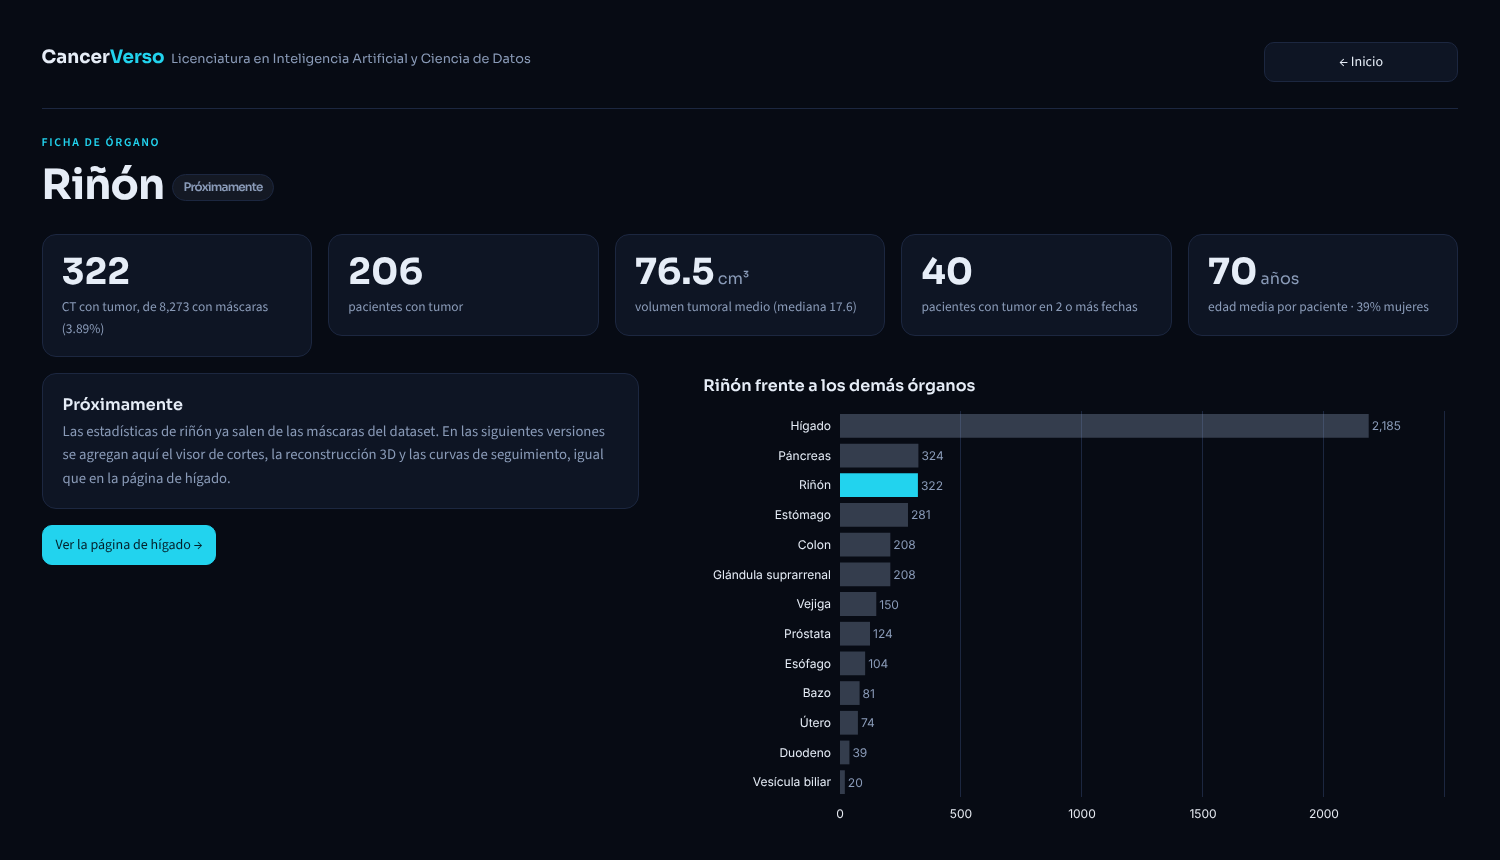
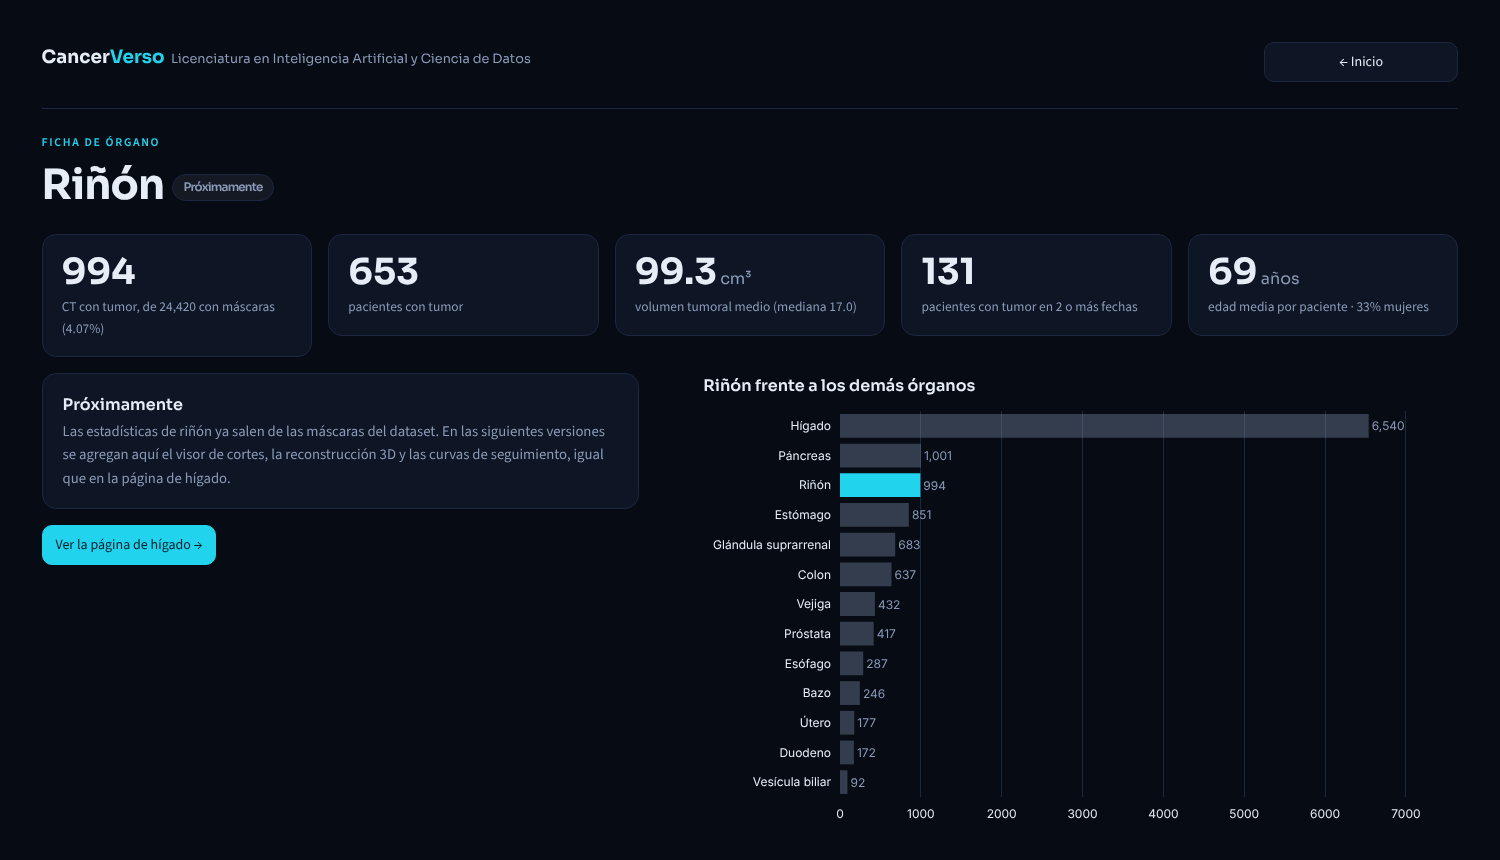
Versión final: README con recorrido de la app, capturas nuevas y documentos cerrados

diff --git a/app.py b/app.py
@@ -449,12 +449,12 @@ def figura_barras_log(nombres, valores, unidad, colores):
     """Barras horizontales en escala logarítmica (sirve cuando los valores van de muy chicos a muy grandes)."""
     textos = []
     for v in valores:
-        if v >= 100:
-            textos.append(f"{v:,.0f}" + " " + unidad)       # 3040 -> "3,040"
+        if v >= 100 or v == round(v):
+            textos.append(f"{v:,.0f}" + " " + unidad)       # 3040 -> "3,040" y 81 -> "81"
         elif v >= 1:
             textos.append(f"{v:,.1f}" + " " + unidad)       # 23.6 -> "23.6"
         else:
-            textos.append(f"{v:.3f}" + " " + unidad)        # 0.026 -> "0.026"
+            textos.append(f"{v:.3g}" + " " + unidad)        # 0.55 -> "0.55" y 0.026 -> "0.026"
     fig = go.Figure(go.Bar(y=nombres, x=valores, orientation="h", marker_color=colores, text=textos,
                            textposition="outside", textfont=dict(color=TEXTO), hoverinfo="skip"))
     estilo_grafica(fig, 60 + 48 * len(nombres))

diff --git a/README.md b/README.md
@@ -6,39 +6,76 @@ Proyecto de Big Data (proceso KDD) · Licenciatura en Inteligencia Artificial y 
 > Prototipo académico. No es un dispositivo médico ni sustituye el diagnóstico de un especialista.
 
 **Integrantes:** Isay Morales, Christopher Medrano, Paul Rondan y Astrin Paloma.
-**Materia y profesor:** Manejo de grandes volumenes de datos · Profesor Leonardo Zucco.
+**Materia y profesor:** Manejo de grandes volúmenes de datos · Profesor Leonardo Zucco.
+**Versión final:** 25 de noviembre de 2026.
+
+---
+
+## En números
+
+| | |
+|---|---|
+| Dataset de origen | **3.04 TB** · 24,422 tomografías (CT) · 14,599 pacientes · 13 órganos |
+| CT de hígado procesados a detalle | **300.9 GB** · 2,336 CTs de 1,319 pacientes (meta mínima: 300 GB) |
+| Tiempo de proceso | ~55 h en Google Colab, repartidas en 4 cuentas |
+| Dataset para el modelo | 180,238 cortes 2D en 90 shards (23.6 GB), separados por paciente |
+| Modelo | U-Net 2D (deep learning, MONAI) entrenada por el equipo en una GPU T4 |
+| Resultado en pacientes nunca vistos | Dice hígado **0.95** · Dice tumor **0.65** · HTB% con correlación **0.85** |
 
 ---
 
 ## 1. Qué es
 
+**Pregunta del proyecto:** ¿cuánto del hígado de un paciente está ocupado por tumor, y cómo cambia eso entre un estudio y el siguiente?
+
 CancerVerso es un dashboard en Streamlit que permite:
 
 - Ver las cifras generales del dataset CancerVerse y elegir un órgano en un **menú de 13 órganos**.
-- Para **hígado** (el órgano activo en esta versión): recorrer la tomografía corte por corte con el tumor marcado, ver el hígado y los tumores en **3D**, y medir la **carga tumoral hepática (HTB%)**.
-- Seguir a un mismo paciente **en el tiempo**: cómo cambia el volumen de su tumor entre estudios.
-- Ver el **modelo de deep learning** (pestaña *Modelo IA*): una U-Net 2D entrenada por el equipo que pinta hígado y tumor, con sus métricas en pacientes que nunca vio y cortes de ejemplo experto vs U-Net.
-- Ver **cómo se procesaron los datos** (pestaña *Cómo lo hicimos*): el proceso KDD, cuánto pesan los datos en cada etapa, el reparto del trabajo y los problemas que se resolvieron.
+- En **hígado**, el órgano con página completa, hay tres pestañas:
+  - **Paciente:** recorrer la tomografía corte por corte con el tumor marcado, ver el hígado y los tumores en **3D**, medir la **carga tumoral hepática (HTB%)** y seguir al paciente **en el tiempo**.
+  - **Modelo IA:** la U-Net que entrenamos, con sus métricas en pacientes que nunca vio, cortes de ejemplo experto vs U-Net y dónde falla.
+  - **Cómo lo hicimos:** el proceso KDD, cuánto pesan los datos en cada etapa, el reparto del trabajo, los benchmarks y los problemas que resolvimos.
+- Los otros 12 órganos muestran sus estadísticas, calculadas sobre el dataset completo.
 
-Los otros 12 órganos ya muestran sus estadísticas y están marcados como "Próximamente".
+La versión web está en `cancerverso-udg.streamlit.app` y es privada: se entra con el enlace con clave que comparte el equipo.
 
-## 2. Capturas
+## 2. Recorrido por la app
 
-| Portada | Mapa de órganos |
+**Portada:** cifras del dataset y avance de datos procesados.
+
+![Portada](capturas/01_portada.png)
+
+**Mapa de órganos:** clic en un órgano para abrir su ficha.
+
+![Mapa de órganos](capturas/02_mapa_organos.png)
+
+**Hígado › Paciente:** visor de cortes (tumor en rojo, contorno del hígado en cian) y reconstrucción 3D.
+
+![Visor de cortes y 3D](capturas/03_higado_visor_3d.png)
+
+| Carga tumoral hepática (HTB%) | Ficha de un órgano sin página completa |
 |---|---|
-| ![Portada](capturas/01_portada.png) | ![Mapa](capturas/02_mapa_organos.png) |
+| ![HTB%](capturas/04_higado_htb.png) | ![Órgano](capturas/06_organo_proximamente.png) |
 
-| Visor de cortes y 3D | HTB% |
-|---|---|
-| ![Visor](capturas/03_higado_visor_3d.png) | ![HTB](capturas/04_higado_htb.png) |
+**Hígado › Paciente:** seguimiento del volumen tumoral en el tiempo.
 
-| Seguimiento del paciente | Ficha de otro órgano |
-|---|---|
-| ![Seguimiento](capturas/05_seguimiento.png) | ![Órgano](capturas/06_organo_proximamente.png) |
+![Seguimiento](capturas/05_seguimiento.png)
 
-| Modelo IA (U-Net) | Cómo lo hicimos |
-|---|---|
-| ![Modelo IA](capturas/07_modelo_ia.png) | ![Cómo lo hicimos](capturas/08_como_lo_hicimos.png) |
+**Hígado › Modelo IA:** métricas de la U-Net y 4 cortes de prueba, experto arriba y U-Net abajo.
+
+![Modelo IA](capturas/07_modelo_ia.png)
+
+**Hígado › Modelo IA:** HTB% del modelo contra el real, Dice por tamaño de tumor, curva de entrenamiento y dónde falla.
+
+![Gráficas del modelo](capturas/09_modelo_graficas.png)
+
+**Hígado › Cómo lo hicimos:** el problema, las 5 etapas del KDD, tamaño de los datos por etapa y reparto del trabajo.
+
+![Cómo lo hicimos](capturas/08_como_lo_hicimos.png)
+
+**Hígado › Cómo lo hicimos:** benchmark de lectura, precisión mixta y problemas resueltos.
+
+![Lectura, GPU y problemas](capturas/10_como_lo_hicimos_lectura.png)
 
 ## 3. Dataset
 
@@ -55,47 +92,63 @@ Los otros 12 órganos ya muestran sus estadísticas y están marcados como "Pró
 
 El dataset trae la máscara del **tumor** de cada órgano, pero no la máscara del órgano. Por eso el hígado se segmenta aparte (ver sección 4).
 
-**Este repositorio no incluye datos.** Por la licencia del dataset y porque las tablas traen reportes radiológicos, aquí solo está el código. Los datos se generan corriendo el notebook.
+**Este repositorio no incluye datos de pacientes.** Por la licencia del dataset y porque las tablas traen reportes radiológicos, aquí está el código y solo cifras agregadas del modelo (`resultados/`). Los datos se generan corriendo los notebooks.
 
 ## 4. Cómo funciona
 
 ```
-Hugging Face (CTs)  ─┐
-                     ├─► Notebook de Colab ─► Google Drive (stats + procesados) ─► app.py (Streamlit)
-Máscaras de tumor  ──┘
+Hugging Face (3.04 TB) ─► V1: medir, segmentar hígado, HTB%, reducir ─► V2: dataset 2D en shards ─► V3: U-Net ─► app.py (Streamlit)
+                          (2,336 CTs · 300.9 GB leídos)                 (180,238 cortes · 23.6 GB)   (T4, 14 épocas)
 ```
 
-1. **Medición de máscaras.** El notebook recorre las máscaras de tumor de los 13 órganos y calcula el volumen de cada tumor en cm³, sin bajar ningún CT.
-2. **Segmentación del hígado (deep learning).** Para cada CT de hígado elegido se corre **TotalSegmentator 2.18.0**, una red neuronal preentrenada, que devuelve la máscara del hígado.
+**Notebook V1 (datos):**
+
+1. **Medición de máscaras.** Recorre las máscaras de tumor de los 13 órganos y calcula el volumen de cada tumor en cm³, sin bajar ningún CT (0.55 GB leídos).
+2. **Segmentación del hígado.** Para cada CT de hígado elegido corre **TotalSegmentator 2.18.0**, una red neuronal preentrenada, que devuelve la máscara del hígado.
 3. **Carga tumoral hepática.**
    `HTB% = volumen de tumor ÷ volumen de (hígado ∪ tumor) × 100`
    Se usa la unión porque TotalSegmentator a veces deja fuera del hígado los tumores grandes.
-4. **Control de calidad.** Se revisa que CT y máscaras estén alineados y se generan imágenes de los casos donde más del 10% del tumor quedó fuera de la máscara de hígado.
-5. **Seguimiento.** Para pacientes con 2 o más fechas se arma la curva de volumen tumoral, prefiriendo la misma fase del estudio en todas las fechas. Si en una fecha no existe esa fase se usa la disponible y el paciente queda marcado en la columna `misma_fase` (con las 3 partes unidas, 688 de 1,258 pacientes conservan una sola fase). Los pacientes elegidos para la demostración sí mantienen una sola fase.
-6. **Dashboard.** La app solo lee las tablas y los volúmenes reducidos que dejó el notebook.
+4. **Control de calidad.** Revisa que CT y máscaras estén alineados y genera imágenes de los casos donde más del 10% del tumor quedó fuera de la máscara de hígado.
+5. **Seguimiento.** Para pacientes con 2 o más fechas arma la curva de volumen tumoral, prefiriendo la misma fase del estudio en todas las fechas. Si en una fecha no existe esa fase usa la disponible y el paciente queda marcado en la columna `misma_fase` (con las 3 partes unidas, 688 de 1,258 pacientes conservan una sola fase). Los pacientes de la demostración mantienen una sola fase.
+6. **Volumen reducido.** Guarda cada CT ~50 veces más chico para la app y el modelo; las métricas se calculan antes, sobre el CT completo.
 
-El trabajo se reparte por paciente en 3 partes (una por cuenta de Colab) y al final se junta.
+El trabajo se repartió por paciente en 3 partes (hash MD5 del ID) entre 4 cuentas de Colab y al final se unió. 173 CTs se procesaron dos veces como prueba de reproducibilidad: el HTB% difirió como máximo 0.01 puntos.
+
+**Notebook V2 (dataset para el modelo):** inventario de los 2,336 volúmenes, validación, exclusión de 72 CTs con píxel deformado, separación **por paciente** (70/15/15, semilla 42) y 90 shards sin comprimir con huella MD5 en un manifiesto.
+
+**Notebook V3 (modelo):** U-Net 2D de MONAI (6.5 millones de parámetros) que clasifica cada píxel como fondo, hígado o tumor. Pérdida Dice + entropía cruzada, AdamW, precisión mixta fp16 en una T4. Se guarda la época con mejor Dice de tumor en validación y se evalúa en 346 CTs de 193 pacientes que el modelo nunca vio.
+
+**App:** solo lee lo que dejaron los notebooks. No corre el modelo en vivo: muestra la evaluación ya hecha.
 
 Umbrales usados, marcados como **provisionales**:
 
-- Semáforo de HTB% en 25% y 50%: criterio del equipo, todavía sin fuente clínica.
+- Semáforo de HTB% en 25% y 50%: criterio del equipo, sin fuente clínica.
 - Tendencia del volumen (+73% crece, −66% se reduce): equivalente en volumen de RECIST 1.1 (Eisenhauer et al., *Eur J Cancer*, 2009), que define +20% y −30% de diámetro.
 
-## 5. Avance al 24 de noviembre de 2026
+## 5. Resultados
 
-| Etapa | Estado |
+**Datos**
+
+| Etapa | Resultado |
 |---|---|
-| Medición de máscaras, 3 partes unidas (24,420 CTs, 12,529 anotaciones de tumor) | Hecho |
-| Hígado a detalle, 3 partes: 2,336 CTs de 1,319 pacientes (301 GB de CT) | Hecho |
-| Dashboard V1 (portada, menú de órganos, hígado, seguimiento) | Hecho |
-| Unión de las partes 0, 1 y 2 (sección 13 del notebook) | Hecho |
-| Dataset 2D para el modelo: 180,238 cortes de 2,264 CTs, separados por paciente, en 90 shards (23.6 GB) | Hecho |
-| Modelo propio: U-Net 2D de hígado y tumor (MONAI), evaluada en pacientes nunca vistos: Dice tumor 0.65, Dice hígado 0.95, HTB% r = 0.85 | Hecho (GPU T4) |
-| Meta de datos procesados: 300 GB (deseable 1 TB) | 301 GB, meta mínima cumplida |
+| Medición de máscaras (dataset completo) | 24,420 CTs y 12,529 anotaciones de tumor, sin bajar ningún CT |
+| Hígado a detalle | 2,336 CTs de 1,319 pacientes · **300.9 GB** de CT · meta mínima de 300 GB cumplida |
+| Dataset 2D | 180,238 cortes de 2,264 CTs en 90 shards (23.6 GB), 0 pacientes en dos grupos |
+| Lectura | Drive archivo por archivo ~80 cortes/s; con shards o en disco local, más de 1,300 |
+| Entrenamiento | fp16 en la T4: 284 cortes/s contra 148 en fp32 (1.9 veces) |
 
-Las estadísticas por órgano ya cubren el dataset completo (las 3 partes unidas). El hígado a detalle cubre 2,336 CTs, no todos los del dataset. El visor de cortes y 3D solo muestra los CTs cuyo `volumen.npz` se copió a `datos/procesados/higado`.
+**Modelo (346 CTs de prueba, 193 pacientes nunca vistos)**
 
-El detalle por etapa del proceso KDD está en [docs/KDD.md](docs/KDD.md); la ingeniería de datos, en [docs/INGENIERIA.md](docs/INGENIERIA.md); y el diccionario y linaje de los datos, en [docs/DATOS.md](docs/DATOS.md).
+| Métrica | Valor |
+|---|---|
+| Dice de hígado (global / mediana por CT) | 0.949 / 0.969 |
+| Dice de tumor (global / mediana por CT) | 0.653 / 0.521 |
+| Dice de tumor, tumores chicos / grandes | 0.13 / 0.74 |
+| HTB% del modelo vs real: correlación / error mediano | 0.85 / 0.66 puntos |
+
+El hígado se segmenta casi perfecto. El tumor depende de su tamaño: las lesiones chicas son las difíciles. El HTB% sale cerca del real en la mayoría de los CTs, pero el modelo subestima los casos con más de 40% de carga tumoral.
+
+Detalle: proceso KDD en [docs/KDD.md](docs/KDD.md), ingeniería de datos en [docs/INGENIERIA.md](docs/INGENIERIA.md), diccionario y linaje en [docs/DATOS.md](docs/DATOS.md) y guía para presentar en [docs/DEFENSA.md](docs/DEFENSA.md).
 
 ## 6. Cómo correrlo
 
@@ -108,7 +161,7 @@ El detalle por etapa del proceso KDD está en [docs/KDD.md](docs/KDD.md); la ing
 **Dataset para el modelo y U-Net (Google Colab):**
 
 1. `notebooks/CancerVerso_V2_datos_modelo.ipynb` (CPU con RAM amplia): inventario, validación, separación por paciente y shards en `MyDrive/Big data Zucco/dataset_modelo/v2/`.
-2. `notebooks/CancerVerso_V3_unet.ipynb` (GPU, de preferencia G4): verifica las huellas MD5, entrena la U-Net y la evalúa. Los resultados quedan en `MyDrive/Big data Zucco/modelos/unet_<gpu>/`.
+2. `notebooks/CancerVerso_V3_unet.ipynb` (GPU): verifica las huellas MD5, entrena la U-Net y la evalúa. Los resultados quedan en `MyDrive/Big data Zucco/modelos/unet_<gpu>/`. La corrida entregada, con todas sus salidas, es `CancerVerso_V3_unet_corrida_T4.ipynb`.
 
 **Levantar la app (local):**
 
@@ -133,7 +186,7 @@ resultados/ejemplos_test.png 4 cortes de test: experto vs U-Net (la misma imagen
 resultados/proceso.json      cifras del proceso de datos (de docs/INGENIERIA.md)
 ```
 
-Si solo se corrió una parte, los archivos de `stats/` salen con sufijo (`_parte0`); hay que copiarlos sin el sufijo. Con todas las partes, la sección 13 del notebook genera los archivos finales en `stats_union/`.
+La versión web (`cloud_app.py`) se explica en [docs/DESPLIEGUE.md](docs/DESPLIEGUE.md).
 
 ## 7. Estructura del repositorio
 
@@ -145,34 +198,44 @@ resultados/                    resultados de la U-Net y cifras del proceso que m
 requirements.txt               librerías de la app
 .streamlit/config.toml         tema oscuro de la app
 notebooks/CancerVerso_V1.ipynb preparación de datos (Colab)
+notebooks/CancerVerso_V1_ampliacion.ipynb     versión del V1 que se usó en Colab para ampliar los casos de hígado
 notebooks/CancerVerso_V2_datos_modelo.ipynb   dataset 2D para el modelo (Colab)
 notebooks/CancerVerso_V3_unet.ipynb           U-Net: entrenamiento y evaluación (Colab)
-notebooks/CancerVerso_V3_unet_corrida_T4.ipynb  primera corrida de la U-Net, con resultados
+notebooks/CancerVerso_V3_unet_corrida_T4.ipynb  corrida entregada de la U-Net, con resultados
 docs/KDD.md                    proceso KDD del proyecto
 docs/DATOS.md                  diccionario de datos y linaje
 docs/INGENIERIA.md             cómo se procesaron los datos
-docs/DEFENSA.md                preguntas y respuestas para presentar el proyecto
+docs/DEFENSA.md                guion de demo y preguntas y respuestas
 docs/DESPLIEGUE.md             cómo se publica la versión web
 capturas/                      imágenes del dashboard
 ```
 
-## 8. Qué sigue y qué necesitamos
+## 8. Límites
 
-**Siguiente versión**
+- Solo hígado tiene página completa; los otros 12 órganos muestran estadísticas.
+- Se procesaron a detalle 300.9 GB de los 3.04 TB; las estadísticas por órgano sí cubren el dataset completo.
+- El visor de cortes y 3D muestra 20 CTs de demostración, no los 2,336.
+- Las cifras del modelo son algo optimistas: la validación se usó para elegir la mejor época y solo se evalúan cortes con hígado.
+- El semáforo de HTB% y la regla de tendencia son criterios provisionales del equipo.
 
-- Mejorar la U-Net en tumores chicos y medirla en una GPU G4.
-- Correr la U-Net en vivo dentro de la app (hoy muestra la evaluación ya hecha, porque Streamlit Cloud no tiene GPU).
-- Activar más órganos en el menú.
+## 9. Trabajo futuro y apoyo que nos ayudaría
+
+**Trabajo futuro**
+
+- Mejorar la U-Net en tumores chicos (más épocas, más peso a la clase tumor o cortes vecinos en 2.5D).
+- Correr la U-Net en vivo dentro de la app con un servidor con GPU.
+- Activar más órganos en el menú y acercarse a 1 TB procesado.
 
 **Apoyo que nos ayudaría**
 
-- **Cómputo:** hoy usamos una GPU T4 de Colab. Para entrenar la U-Net y llegar a 300 GB procesados necesitamos más horas de GPU.
-- **Almacenamiento:** espacio compartido para guardar los CTs procesados de todo el equipo.
-- **Asesoría técnica:** uso de MONAI para el entrenamiento, y si conviene LoRA o ajuste fino sobre un modelo preentrenado en lugar de entrenar desde cero.
+- **Cómputo:** horas de GPU para reentrenar el modelo y procesar más órganos.
+- **Almacenamiento:** espacio compartido para los CTs procesados de todo el equipo.
+- **Asesoría técnica:** ajuste fino de un modelo preentrenado (por ejemplo con LoRA) contra entrenar desde cero.
 - **Criterio clínico:** una fuente para los cortes del semáforo de HTB%.
 
-## 9. Créditos
+## 10. Créditos
 
 - Datos: CancerVerse, BodyMaps, Johns Hopkins University. CC BY-NC-ND 4.0.
 - Segmentación de hígado: TotalSegmentator 2.18.0 (Wasserthal et al.).
+- U-Net: MONAI (Project MONAI).
 - RECIST 1.1: Eisenhauer et al., *European Journal of Cancer*, 2009.

diff --git a/docs/DATOS.md b/docs/DATOS.md
@@ -2,7 +2,7 @@
 
 Este documento dice **qué datos existen en el proyecto, de dónde sale cada uno, qué significa cada columna y qué controles pasó**. Es la referencia para entender las tablas del notebook, la app y el dataset con el que se entrena la U-Net.
 
-Avance al 24 de noviembre de 2026 (03:45).
+Versión final, 25 de noviembre de 2026.
 
 > Los datos **no se suben a GitHub** (licencia CC BY-NC-ND 4.0 del dataset y reportes radiológicos en las tablas). Viven en Google Drive, en `MyDrive/Big data Zucco/`, y una copia de las tablas de la app en `datos/` de la carpeta local.
 
@@ -54,7 +54,7 @@ flowchart TD
 |---|---|---|
 | `notebooks/CancerVerso_V1.ipynb` | Secciones 1–13: metadatos, máscaras, selección, TotalSegmentator, HTB%, volúmenes reducidos, control de calidad y unión de las 3 partes | Colab (T4) de cada integrante |
 | `notebooks/CancerVerso_V2_datos_modelo.ipynb` | Inventario, validación, separación por paciente, dataset 2D en shards y benchmark de lectura | Colab de Isay (CPU con RAM amplia) |
-| `notebooks/CancerVerso_V3_unet.ipynb` | Benchmark de GPU, verificación MD5, entrenamiento de la U-Net y evaluación en test | Colab de Isay (G4; la primera corrida fue en T4: `CancerVerso_V3_unet_corrida_T4.ipynb`) |
+| `notebooks/CancerVerso_V3_unet.ipynb` | Benchmark de GPU, verificación MD5, entrenamiento de la U-Net y evaluación en test | Colab de Isay. La corrida entregada, con sus resultados, es `CancerVerso_V3_unet_corrida_T4.ipynb` (GPU T4) |
 
 **Reparto en 3 partes:** cada paciente cae en una parte según el hash MD5 de su ID, así que todos sus estudios quedan juntos. Parte 0: Isay (1,909 CTs) y Paloma (27 nuevos + 173 repetidos que sirvieron como prueba de reproducibilidad: diferencia máxima de HTB% de 0.01). Parte 1: Paul (200). Parte 2: Christopher (200).
 
@@ -73,7 +73,6 @@ En Drive, `MyDrive/Big data Zucco/`:
 | `dataset_modelo/v2/` | Shards del dataset 2D, `manifest.json` e `indice_cortes.csv` (versión vigente) |
 | `dataset_modelo/v1/` | Primera corrida, sin el filtro de píxel deformado (obsoleta) |
 | `modelos/unet_t4/` | U-Net entrenada en T4: `mejor.pt`, `ultimo.pt`, bitácoras, `test_por_caso.csv`, gráficas y `resumen.json` (sección 7) |
-| `modelos/unet_g4/` | Igual, cuando se entrene en G4 |
 
 En la carpeta local, `datos/stats/` tiene las tablas que lee la app (unión de las 3 partes) y `datos/procesados/` los volúmenes que muestra.
 
@@ -309,6 +308,6 @@ Algunas series se adquirieron en otro plano con cortes gruesos. Al verlas en vis
 1. Correr `CancerVerso_V1.ipynb` en Colab con GPU (cada integrante su parte; la sección 13 junta las partes).
 2. Crear en Drive los accesos directos de `companeros/` (instrucciones al inicio del notebook V2).
 3. Correr `CancerVerso_V2_datos_modelo.ipynb` con **Ejecutar todo** (CPU con RAM amplia basta; ~20 min).
-4. Correr `CancerVerso_V3_unet.ipynb` con GPU (de preferencia G4) y **Ejecutar todo**: verifica las huellas MD5, entrena y evalúa. Para solo medir una GPU, correr las secciones 1 y 2.
+4. Correr `CancerVerso_V3_unet.ipynb` con GPU (la corrida entregada fue en una T4) y **Ejecutar todo**: verifica las huellas MD5, entrena y evalúa. Para solo medir una GPU, correr las secciones 1 y 2.
 
 Con la misma semilla (42) sale la misma separación y los mismos shards.

diff --git a/docs/INGENIERIA.md b/docs/INGENIERIA.md
@@ -2,7 +2,7 @@
 
 Este documento cuenta **qué problemas de volumen de datos encontramos y cómo los resolvimos**, con las cifras medidas en cada paso. El diccionario de cada tabla y archivo está en [DATOS.md](DATOS.md); el proceso KDD completo, en [KDD.md](KDD.md).
 
-Avance al 24 de noviembre de 2026.
+Versión final, 25 de noviembre de 2026.
 
 ---
 
@@ -115,7 +115,6 @@ Lo estable entre corridas: **Drive archivo por archivo da ~80 cortes/s; cualquie
 |---|---|---|---|---|
 | T4 | fp32 | 24 | 148 | 1.5 GB |
 | T4 | fp16 (mixta) | 24 | 284 | 0.9 GB |
-| G4 | — | — | *pendiente* | — |
 
 - **Checkpoint en Drive cada época** (`ultimo.pt`) y del mejor modelo (`mejor.pt`): si Colab se corta, se retoma.
 - **Tope de tiempo** (120 min): termina la época en curso y se detiene, para no gastar de más.
@@ -132,7 +131,7 @@ Lo estable entre corridas: **Drive archivo por archivo da ~80 cortes/s; cualquie
 | Archivos en otras cuentas | Colab solo ve "Mi unidad" | Atajos de Drive en `companeros/` |
 | Imágenes aplastadas | 72 CTs con píxel de hasta 10.4 × 1.3 mm | Filtro medible en mm, con lista de excluidos |
 | bf16 en la T4 | PyTorch dice que la T4 "soporta" bf16, pero lo emula y sería muy lento | Elegir bf16 solo si la capacidad de cómputo es ≥ 8 (G4, A100, L4); en la T4, fp16 |
-| GPU no disponible | La G4 y la A100 no se asignaron en 3 intentos (más de 12 min cada uno) la noche del 24 nov | Entrenar en T4 y dejar el notebook listo para G4 (lote y precisión se ajustan solos; cada GPU guarda en su carpeta) |
+| GPU no disponible | La G4 y la A100 no se asignaron en 3 intentos (más de 12 min cada uno) la noche del 24 nov | Entrenar en la T4, que sí estaba disponible; el notebook ajusta solo el lote y la precisión a la GPU que toque |
 | Permiso de Drive | El montaje vence si nadie aprueba la ventana a tiempo | Volver a ejecutar; el notebook es reanudable |
 
 ---

diff --git a/docs/KDD.md b/docs/KDD.md
@@ -1,6 +1,6 @@
 # Proceso KDD de CancerVerso
 
-Este documento sigue las cinco etapas del proceso KDD (Knowledge Discovery in Databases) y dice, en cada una, qué se hizo, con qué y qué falta. Avance al 25 de noviembre de 2026.
+Este documento sigue las cinco etapas del proceso KDD (Knowledge Discovery in Databases) y dice, en cada una, qué se hizo, con qué y qué falta. Versión final, 25 de noviembre de 2026.
 
 **Pregunta del proyecto:** ¿cuánto del hígado de un paciente está ocupado por tumor, y cómo cambia eso entre un estudio y el siguiente?
 
@@ -98,9 +98,8 @@ Este documento sigue las cinco etapas del proceso KDD (Knowledge Discovery in Da
 
 ## Siguientes pasos
 
-1. Medir la G4 con el mismo notebook (benchmark y, si hay tiempo, reentrenar) para la comparación T4 vs G4.
-2. Correr la U-Net en vivo en la app (hoy la pestaña Modelo IA muestra la evaluación ya hecha; Streamlit Cloud no tiene GPU).
-3. Mejorar el tumor chico (más épocas, más peso a la clase tumor o entrada 2.5D con cortes vecinos).
-4. Activar más órganos.
+1. Correr la U-Net en vivo en la app (hoy la pestaña Modelo IA muestra la evaluación ya hecha; Streamlit Cloud no tiene GPU).
+2. Mejorar el tumor chico (más épocas, más peso a la clase tumor o entrada 2.5D con cortes vecinos).
+3. Activar más órganos.
 
 La ingeniería de datos (cómo se procesaron los 3.04 TB) está en [INGENIERIA.md](INGENIERIA.md).

diff --git a/docs/DEFENSA.md b/docs/DEFENSA.md
@@ -1,6 +1,6 @@
 # Guía para defender CancerVerso
 
-Preguntas que nos pueden hacer en la presentación, con respuestas cortas y con las cifras reales. Todas las cifras salen de [KDD.md](KDD.md), [INGENIERIA.md](INGENIERIA.md) y [DATOS.md](DATOS.md). Avance al 25 de noviembre de 2026.
+Preguntas que nos pueden hacer en la presentación, con respuestas cortas y con las cifras reales. Todas las cifras salen de [KDD.md](KDD.md), [INGENIERIA.md](INGENIERIA.md) y [DATOS.md](DATOS.md). Versión final, 25 de noviembre de 2026.
 
 ---
 
